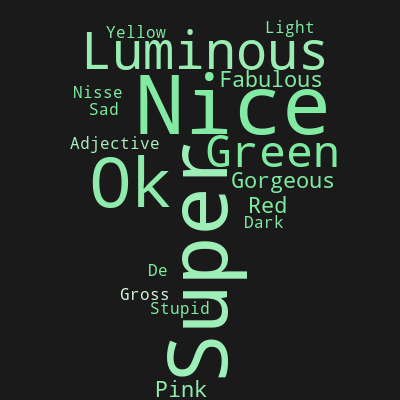
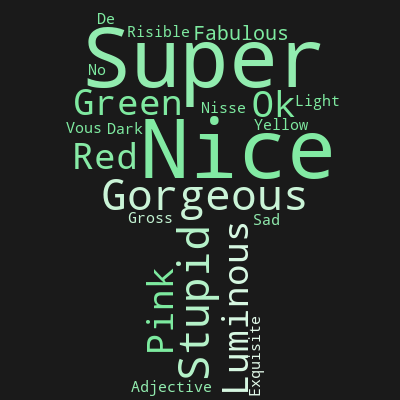
The header now sticks to top of screen + added more logic for words accepted

Changed region(s): [[0.15, 0.03, 0.84, 1.0]]

diff --git a/static/style.css b/static/style.css
@@ -34,10 +34,6 @@
     -webkit-backdrop-filter: blur(10px);
 }
 
-.site-header.hidden {
-    transform: translateY(-100%);
-}
-
 .site-header__title {
     font-family: "DM Mono", monospace;
     font-size: 0.65rem;
@@ -380,6 +376,59 @@ figcaption {
     text-transform: uppercase;
     color: var(--muted);
     transition: color 0.4s ease;
+}
+
+/* ─── FORM MESSAGE ────────────────────────────────── */
+.form-message {
+    display: flex;
+    align-items: center;
+    gap: 8px;
+    padding: 10px 14px;
+    border-radius: 4px;
+    border: 1.5px solid;
+    font-family: "DM Mono", monospace;
+    font-size: 0.72rem;
+    letter-spacing: 0.06em;
+    width: 100%;
+    animation: messageSlide 0.3s cubic-bezier(0.16, 1, 0.3, 1) both;
+    transition: background 0.4s ease, border-color 0.4s ease, color 0.4s ease;
+}
+
+@keyframes messageSlide {
+    from {
+        opacity: 0;
+        transform: translateY(-6px);
+    }
+    to {
+        opacity: 1;
+        transform: translateY(0);
+    }
+}
+
+.form-message__icon {
+    font-size: 0.65rem;
+    font-weight: bold;
+    flex-shrink: 0;
+    width: 16px;
+    height: 16px;
+    border-radius: 50%;
+    display: flex;
+    align-items: center;
+    justify-content: center;
+    background: currentColor;
+    color: var(--surface);
+}
+
+.form-message--error {
+    color: var(--msg-error);
+    border-color: var(--msg-error-border);
+    background: var(--msg-error-bg);
+}
+
+.form-message--success {
+    color: var(--msg-success);
+    border-color: var(--msg-success-border);
+    background: var(--msg-success-bg);
 }
 
 /* (theme toggle now lives in the header) */

diff --git a/static/script.js b/static/script.js
@@ -44,32 +44,7 @@ document.addEventListener("DOMContentLoaded", function () {
   const isDark = savedTheme ? savedTheme.includes("darkmode.css") : false;
   applyTheme(isDark);
 
-  // Scroll-hide header
-  const header = document.getElementById("site-header");
-  if (!header) return;
-
-  let lastY = window.scrollY;
-  let ticking = false;
-
-  window.addEventListener(
-    "scroll",
-    () => {
-      if (!ticking) {
-        requestAnimationFrame(() => {
-          const currentY = window.scrollY;
-          if (currentY > lastY && currentY > 60) {
-            header.classList.add("hidden");
-          } else {
-            header.classList.remove("hidden");
-          }
-          lastY = currentY;
-          ticking = false;
-        });
-        ticking = true;
-      }
-    },
-    { passive: true },
-  );
+  // Header is always visible
 });
 
 /* ── Toggle called by the switch ─────────────────────── */

diff --git a/templates/index.html b/templates/index.html
@@ -38,6 +38,18 @@
       <form action="/" method="post">
           <label for="adjective">Adjective:</label>
           <input type="text" id="adjective" name="adjective" placeholder="This website is...">
+
+          {% with messages = get_flashed_messages(with_categories=true) %}
+            {% for category, message in messages %}
+              <div class="form-message form-message--{{ category }}">
+                <span class="form-message__icon">
+                  {% if category == 'error' %}✕{% else %}✓{% endif %}
+                </span>
+                {{ message }}
+              </div>
+            {% endfor %}
+          {% endwith %}
+
           <button type="submit"><span>Add &rarr;</span></button>
       </form>
 

diff --git a/static/darkmode.css b/static/darkmode.css
@@ -16,6 +16,12 @@
     --toggle-thumb: #e8ede9;
     --frame-bg: #161e18;
     --frame-shadow: 0 4px 24px rgba(0,0,0,0.5), 0 0 40px rgba(126,234,160,0.05);
+    --msg-error:         #f28b72;
+    --msg-error-border:  #7a2a18;
+    --msg-error-bg:      #2a1410;
+    --msg-success:       #7eeaa0;
+    --msg-success-border:#2a5c3a;
+    --msg-success-bg:    #101e14;
 }
 
 body {

diff --git a/static/lightmode.css b/static/lightmode.css
@@ -17,6 +17,12 @@
     --toggle-thumb: #b84a2e;
     --frame-bg: #faf7f2;
     --frame-shadow: 0 2px 8px rgba(60,40,20,0.08), 6px 6px 0 #e8e0d4;
+    --msg-error:         #9b2b11;
+    --msg-error-border:  #d4856e;
+    --msg-error-bg:      #fdf0ec;
+    --msg-success:       #2a6b3c;
+    --msg-success-border:#7eca96;
+    --msg-success-bg:    #eef7f2;
 }
 
 body {

diff --git a/app.py b/app.py
@@ -1,11 +1,13 @@
-from flask import *
+from flask import Flask, render_template, request, redirect, url_for, flash
 from mariadb_python import get_adjectives, write
 from word_cloud_python import make_cloud
 from flask_limiter import Limiter
 from flask_limiter.util import get_remote_address
 import spacy
+import os
 
 app = Flask(__name__)
+app.secret_key = os.environ.get("SECRET_KEY", "change-me-in-production")
 nlp = spacy.load("en_core_web_sm")
 
 limiter = Limiter(
@@ -17,17 +19,22 @@ limiter = Limiter(
 def contains_illegal_characters(string):
     return not all(char.isalpha() for char in string)
 
+BLOCKED_WORDS = {"no", "not", "the", "a", "an", "yes"}
+
+from langdetect import detect
+
+def is_english(word):
+    try:
+        return detect(word) == "en"
+    except:
+        return False
+
 def is_adjective(word):
-    doc = nlp(f"That website is so {word}")
-    for token in doc:
-        if token.text == word:
-            return token.pos_ == "ADJ"
-        else:
-            doc = nlp(f"This is {word}")
-            for token in doc:
-                if token.text == word:
-                    return token.pos_ == "ADJ"
-    return False
+    if word.lower() in BLOCKED_WORDS:
+        return False
+    if not is_english(word):
+        return False
+
 
 @app.route("/")
 def index():
@@ -39,21 +46,38 @@ def index():
     else:
         the_adjective = "Nothing here yet"
 
-    return render_template("index.html", html_adjective_list=adjectives, the_adjective_html=the_adjective)
+    return render_template("index.html",
+                           html_adjective_list=adjectives,
+                           the_adjective_html=the_adjective)
+
 
 @app.route("/", methods=["POST"])
 @limiter.limit("10 per minute; 40 per hour")
-
-
 def add():
-    adjective = request.form.get('adjective')
-    if not adjective or contains_illegal_characters(adjective):
-        return redirect(url_for('index'))
+    adjective = request.form.get("adjective", "").strip()
+
+    if not adjective:
+        flash("Please enter a word.", "error")
+        return redirect(url_for("index"))
+
+    if contains_illegal_characters(adjective):
+        flash(f'"{adjective}" contains invalid characters — letters only please.', "error")
+        return redirect(url_for("index"))
+
     if not is_adjective(adjective):
-        return redirect(url_for('index'))
+        flash(f'"{adjective}" doesn\'t seem to be an english adjective. Try something describing the site!', "error")
+        return redirect(url_for("index"))
 
     write(adjective.lower())
-    return redirect(url_for('index'))
+    flash(f'"{adjective.capitalize()}" was added — thank you!', "success")
+    return redirect(url_for("index"))
+
+
+@app.errorhandler(429)
+def rate_limit_exceeded(e):
+    flash("Slow down! You're submitting too fast.", "error")
+    return redirect(url_for("index")), 429
+
 
 if __name__ == "__main__":
     app.run(debug=True)
